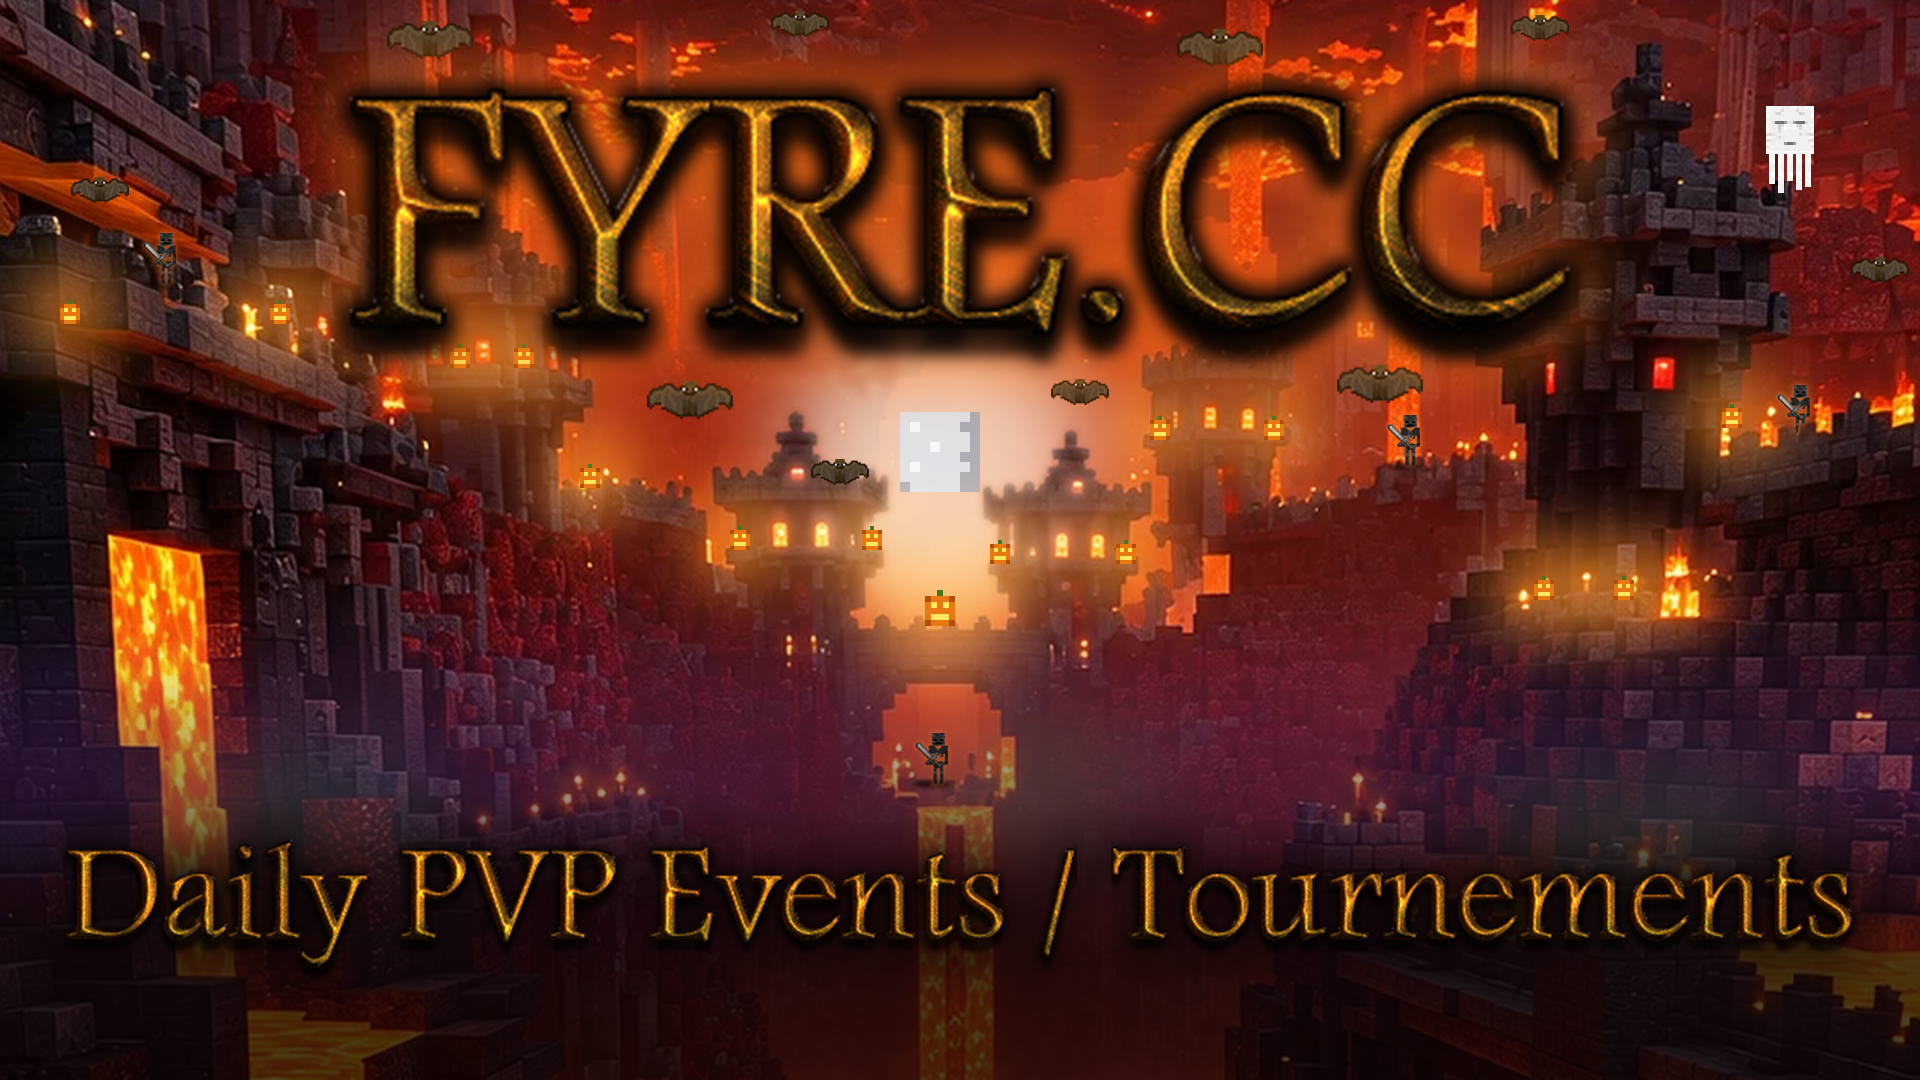
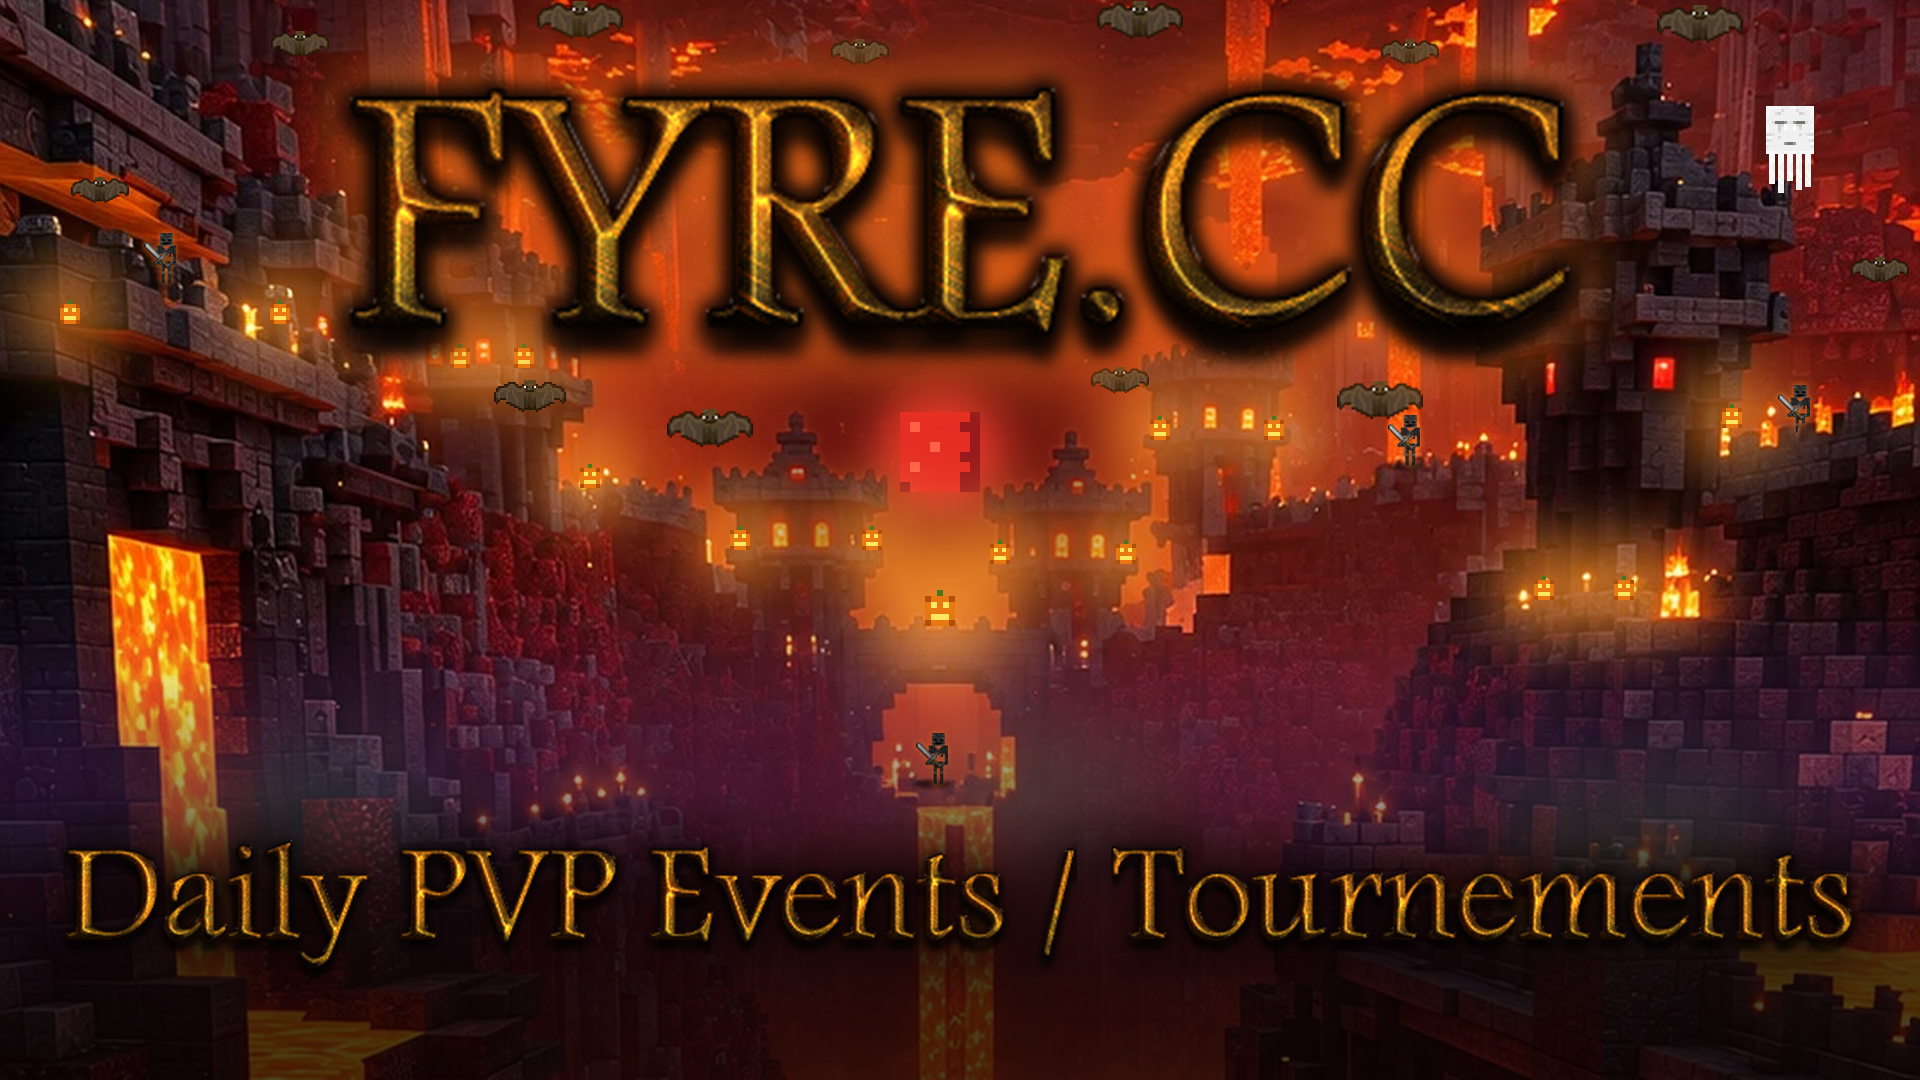
Blood moon, and spread the bats in two even rows
The Minecraft moon is now deep red with a maroon veil around it and a
red rim glow so it stands out from the orange sky. Bats sit in a row
along the top and a row in the open sky below the logo, spaced evenly
across the width.

Claude-Session: https://claude.ai/code/session_01LPehDgsXCVDFiYqWq7LdDj

diff --git a/branding/fyre/halloween.py b/branding/fyre/halloween.py
@@ -84,11 +84,17 @@ def scene(base):
     r, g, b = base.split()
     sky = ImageChops.subtract(r, b).point(lambda v: 255 if v > 95 else int(v * 2.6))
     sky = ImageChops.multiply(sky, base.convert('L').point(lambda v: 255 if v > 70 else v * 3))
-    halo = Image.new('L', (W, H))
-    R = size * 1.9
-    ImageDraw.Draw(halo).ellipse([mx - R, my - R, mx + R, my + R], 210)
-    halo = ImageChops.multiply(halo.filter(ImageFilter.GaussianBlur(size * .55)), sky.filter(ImageFilter.GaussianBlur(2*f)))
-    base = ImageChops.screen(base, Image.composite(Image.new('RGB', (W, H), (235,225,205)), Image.new('RGB', (W, H)), halo))
+    # deep maroon veil around the moon so the red disc stands out, then a tight red glow at its rim
+    veil = Image.new('L', (W, H))
+    R = size * 2.4
+    ImageDraw.Draw(veil).ellipse([mx - R, my - R, mx + R, my + R], 190)
+    veil = ImageChops.multiply(veil.filter(ImageFilter.GaussianBlur(size * .7)), sky.filter(ImageFilter.GaussianBlur(2*f)))
+    base = Image.composite(Image.new('RGB', (W, H), (74,8,12)), base, veil)
+    rim = Image.new('L', (W, H))
+    R = size * .8
+    ImageDraw.Draw(rim).ellipse([mx - R, my - R, mx + R, my + R], 255)
+    rim = ImageChops.multiply(rim.filter(ImageFilter.GaussianBlur(size * .28)), sky.filter(ImageFilter.GaussianBlur(2*f)))
+    base = ImageChops.screen(base, Image.composite(Image.new('RGB', (W, H), (214,40,28)), Image.new('RGB', (W, H)), rim))
     moon = render_moon(W, H, mx, my, size)
     base = Image.composite(moon.convert('RGB'), base, ImageChops.multiply(moon.getchannel('A'), sky))
 
@@ -137,8 +143,9 @@ def scene(base):
         mob(base, 'wither_skeleton', x*f, y*f, .8*f, anchor='bottom', rim=True,
             behind=wall*f if wall else None, shadow=wall is None)
     mob(base, 'ghast', 895*f, 75*f, 1.5*f)
-    for x, y, s in ((50,95,.8), (215,20,1.2), (400,12,.8), (610,24,1.2), (770,14,.8),
-                    (940,135,.8), (345,200,1.2), (420,236,.8), (540,196,.8), (690,192,1.2)):
+    # two loose rows: the lava-lit strip above the logo and the open sky below it, plus the far edges.
+    for x, y, s in ((150,22,.8), (290,10,1.2), (430,26,.8), (570,10,1.2), (705,26,.8), (850,12,1.2),
+                    (50,95,.8), (265,198,1.0), (355,214,1.2), (560,190,.8), (690,200,1.2), (940,135,.8)):
         mob(base, 'bat', x*f, y*f, s*f)
     return base
 
@@ -151,7 +158,7 @@ def logo_halo(base, im, pos, pad, W):
     tight = a.filter(ImageFilter.MaxFilter(2*(W//480)+1)).filter(ImageFilter.GaussianBlur(W/240))
     base.paste((12,2,3), (pos[0]-pad, pos[1]-pad), tight.point(lambda v: int(v * .9)))
 
-# The Minecraft full moon, 8x8: pale face with a shaded right edge.
+# The Minecraft full moon as a blood moon, 8x8: deep red face with a shaded right edge.
 MOON = ["LLLLLLLM",
         "LWLLLLMM",
         "LLLLLLLM",
@@ -160,7 +167,7 @@ MOON = ["LLLLLLLM",
         "LWLLLLLM",
         "LLLLLLMM",
         "MLLLLLMM"]
-MOON_COLORS = {'L': (224,224,228), 'W': (246,246,250), 'M': (172,172,180), 'D': (124,124,134)}
+MOON_COLORS = {'L': (228,44,36), 'W': (255,96,70), 'M': (150,24,28), 'D': (110,16,22)}
 
 def render_moon(W, H, mx, my, size):
     """The square Minecraft moon, crisp block pixels, as an RGBA layer."""
